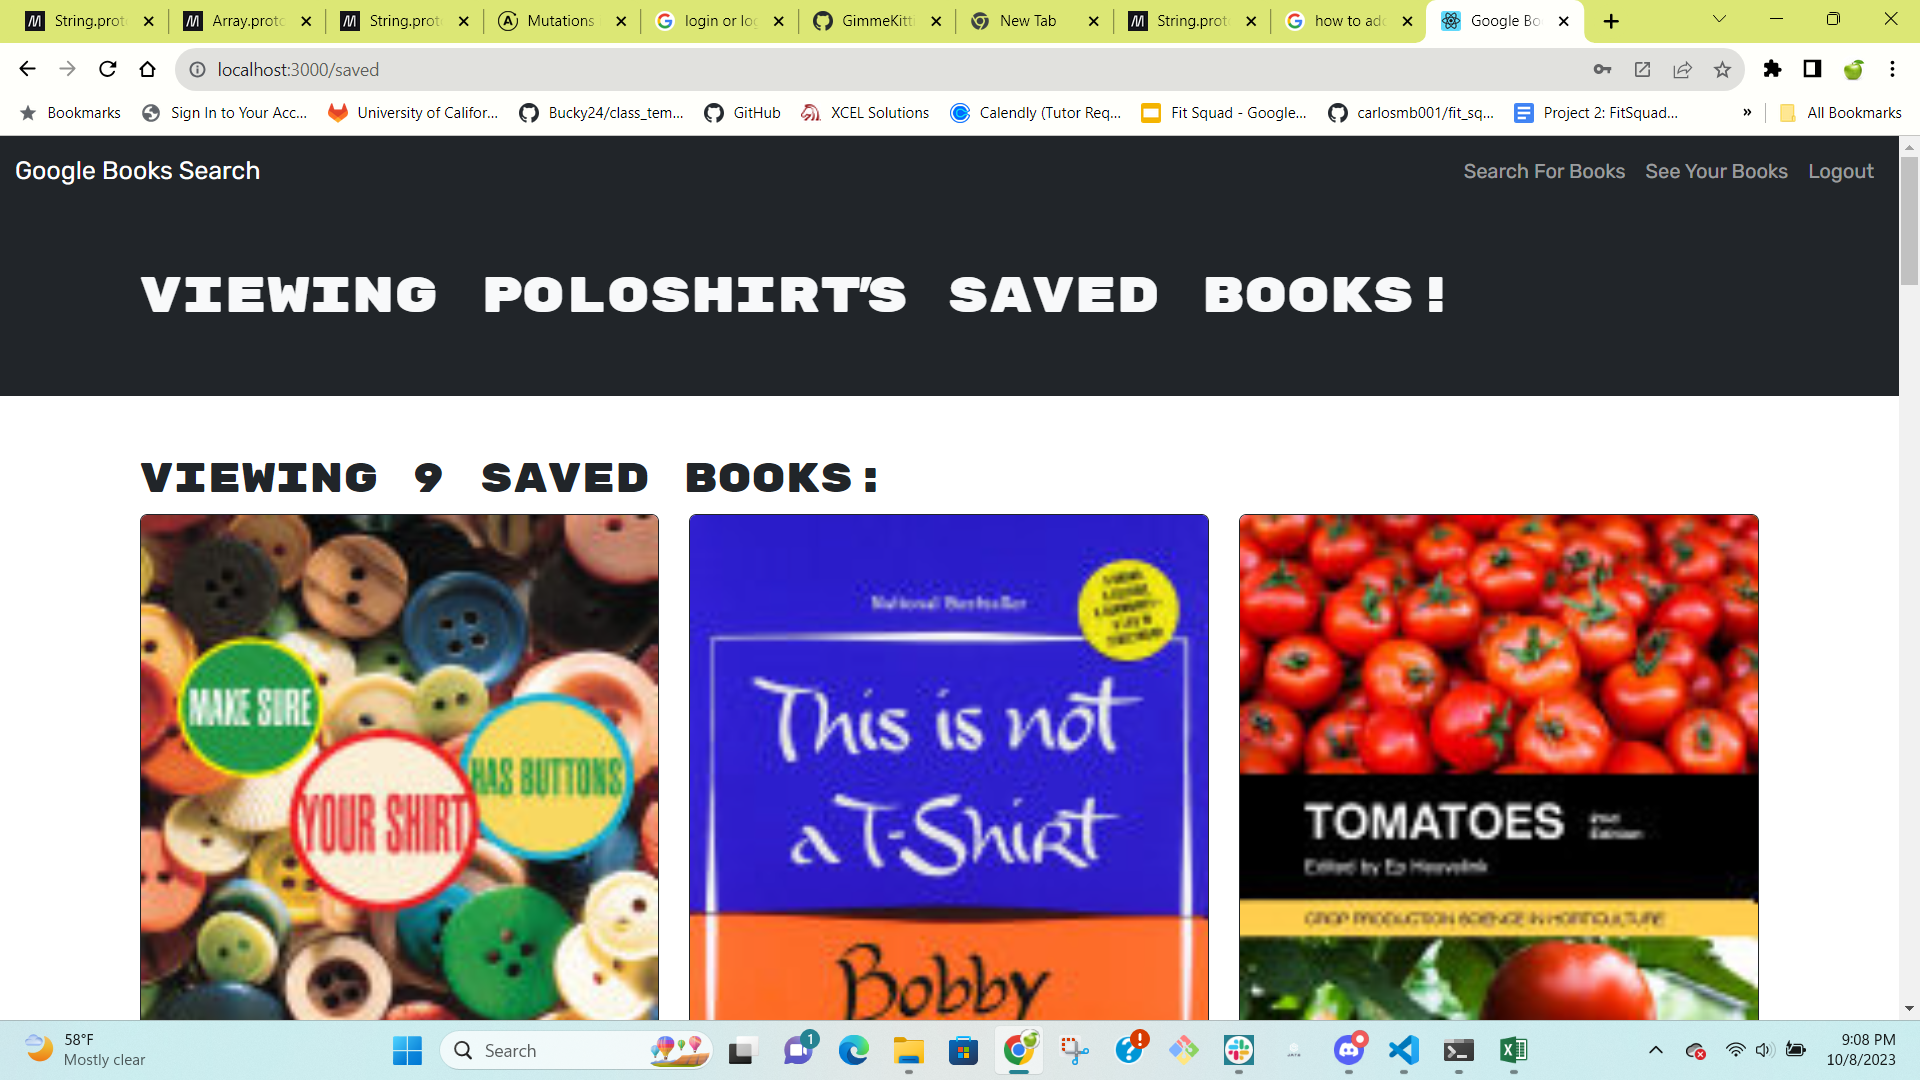
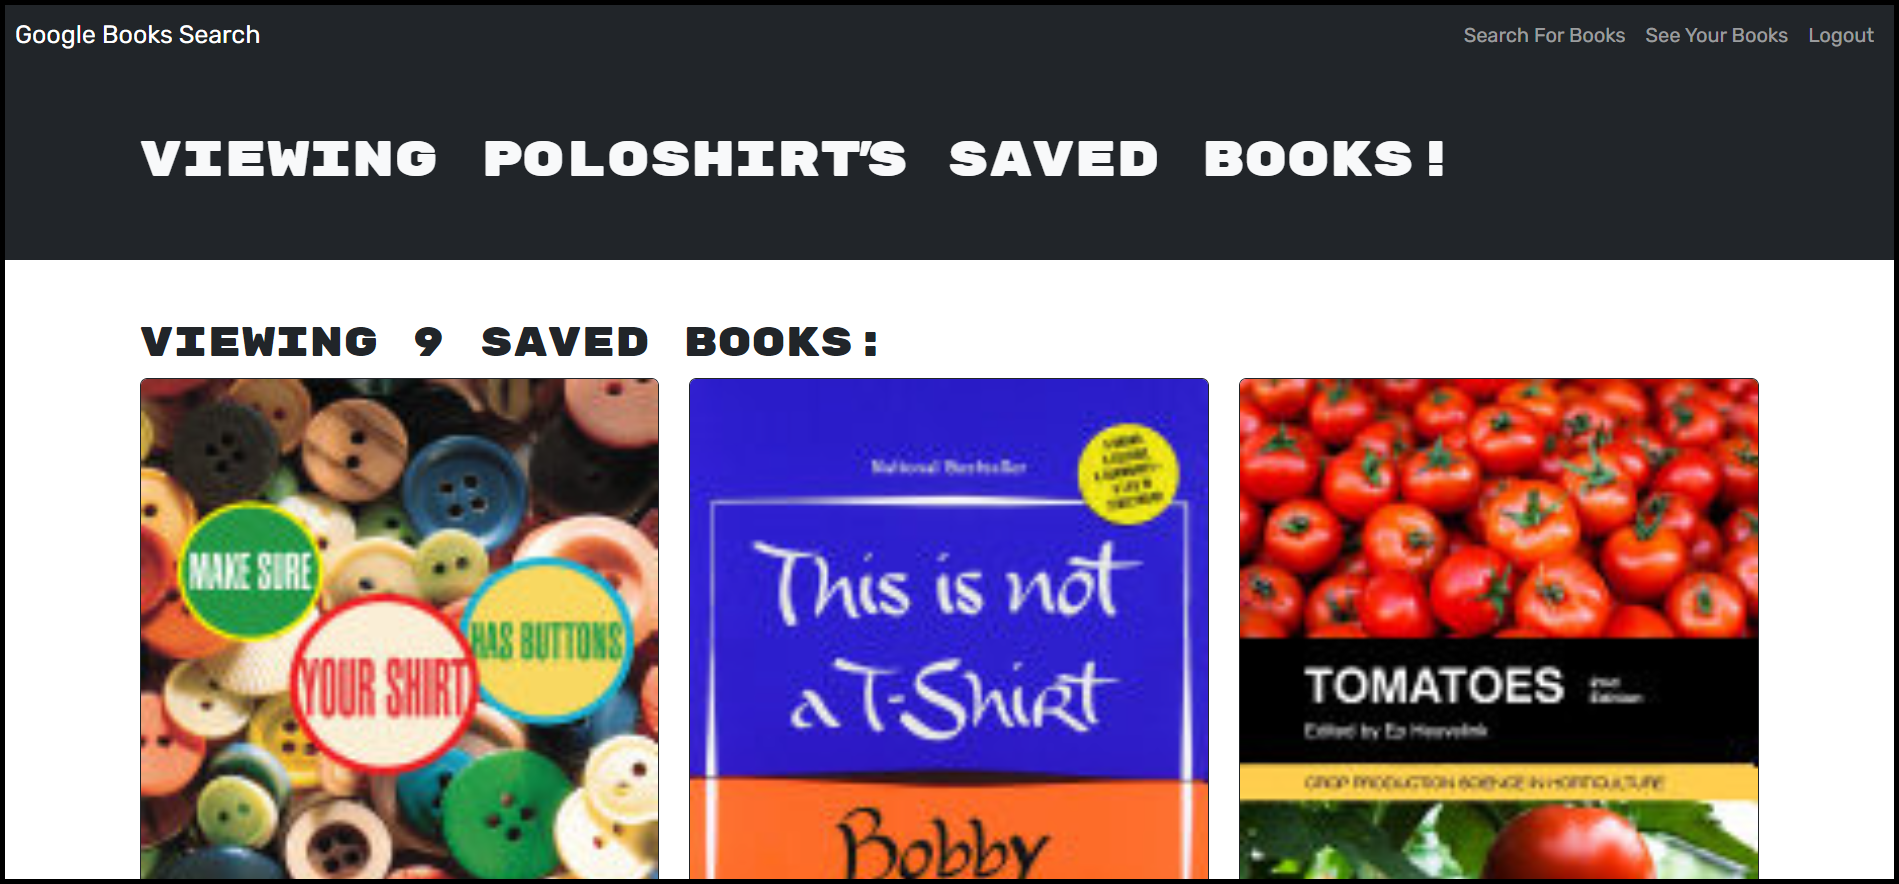
cropped images, added frames, added procfile

diff --git a/README.md b/README.md
@@ -50,7 +50,7 @@ Once you have saved at least one book, you can click on `See your books` in the 
 ![Viewing saved books top of page](Assets/saved_books_top_of_page.png)
 ![Viewing saved books delete buttons](Assets/saved_books_delete_buttons.png)
 
-**Note:** If you have not saved any books yet, the saved books page will look like this:
+**Note:** If you have not saved any books yet, the saved books page will show this message:
 
 ![No saved books](Assets/no_saved_books.png)
 
